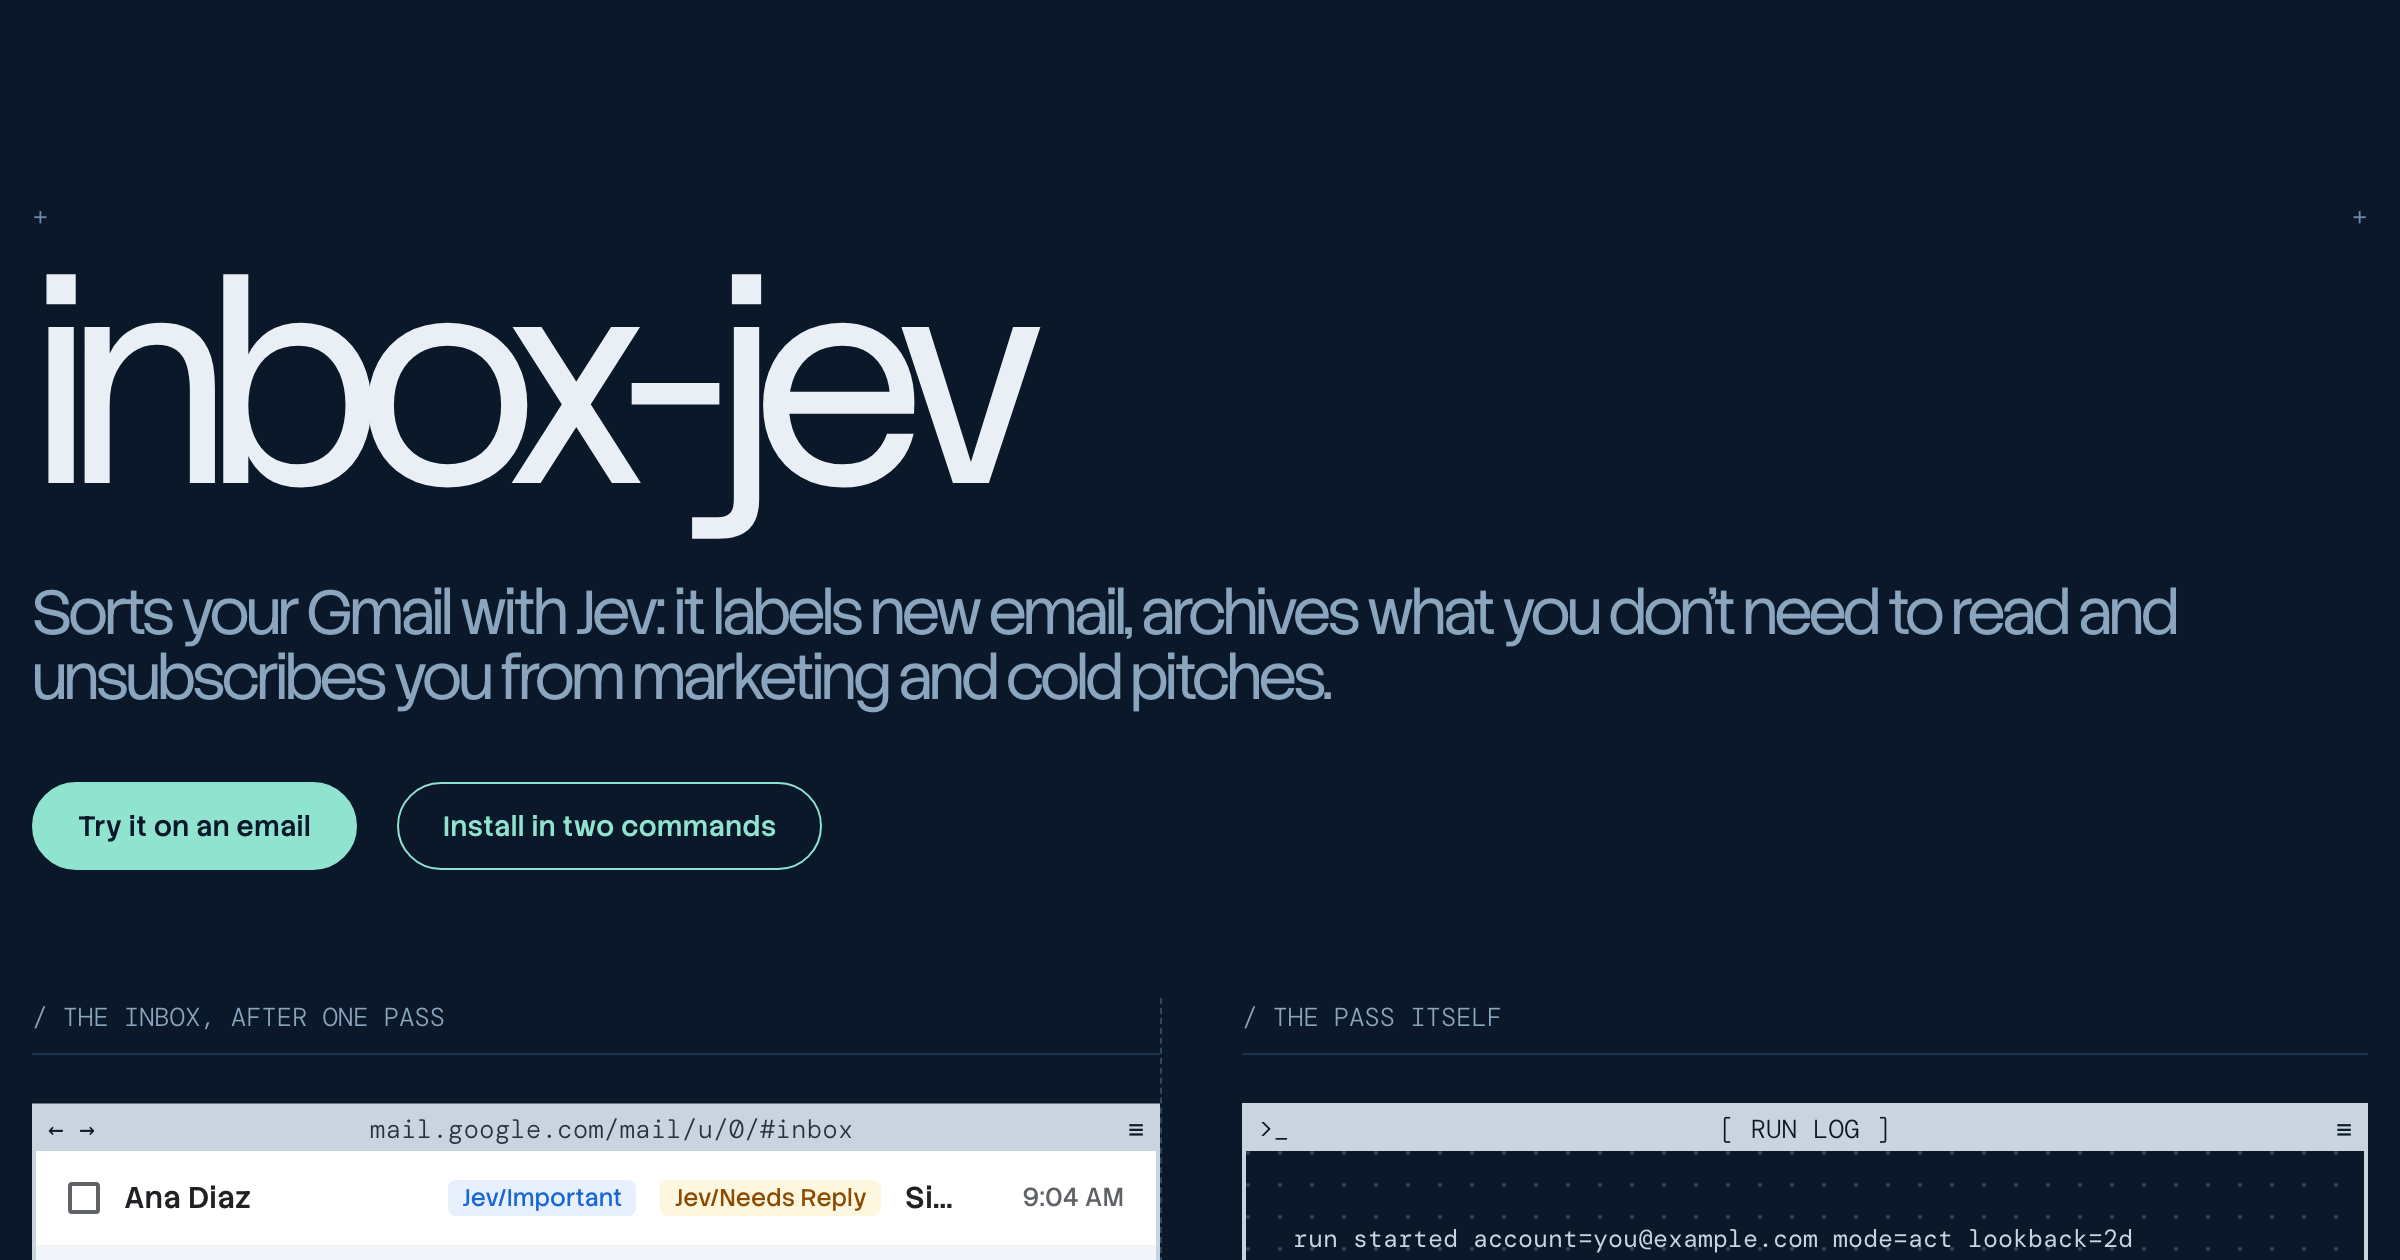
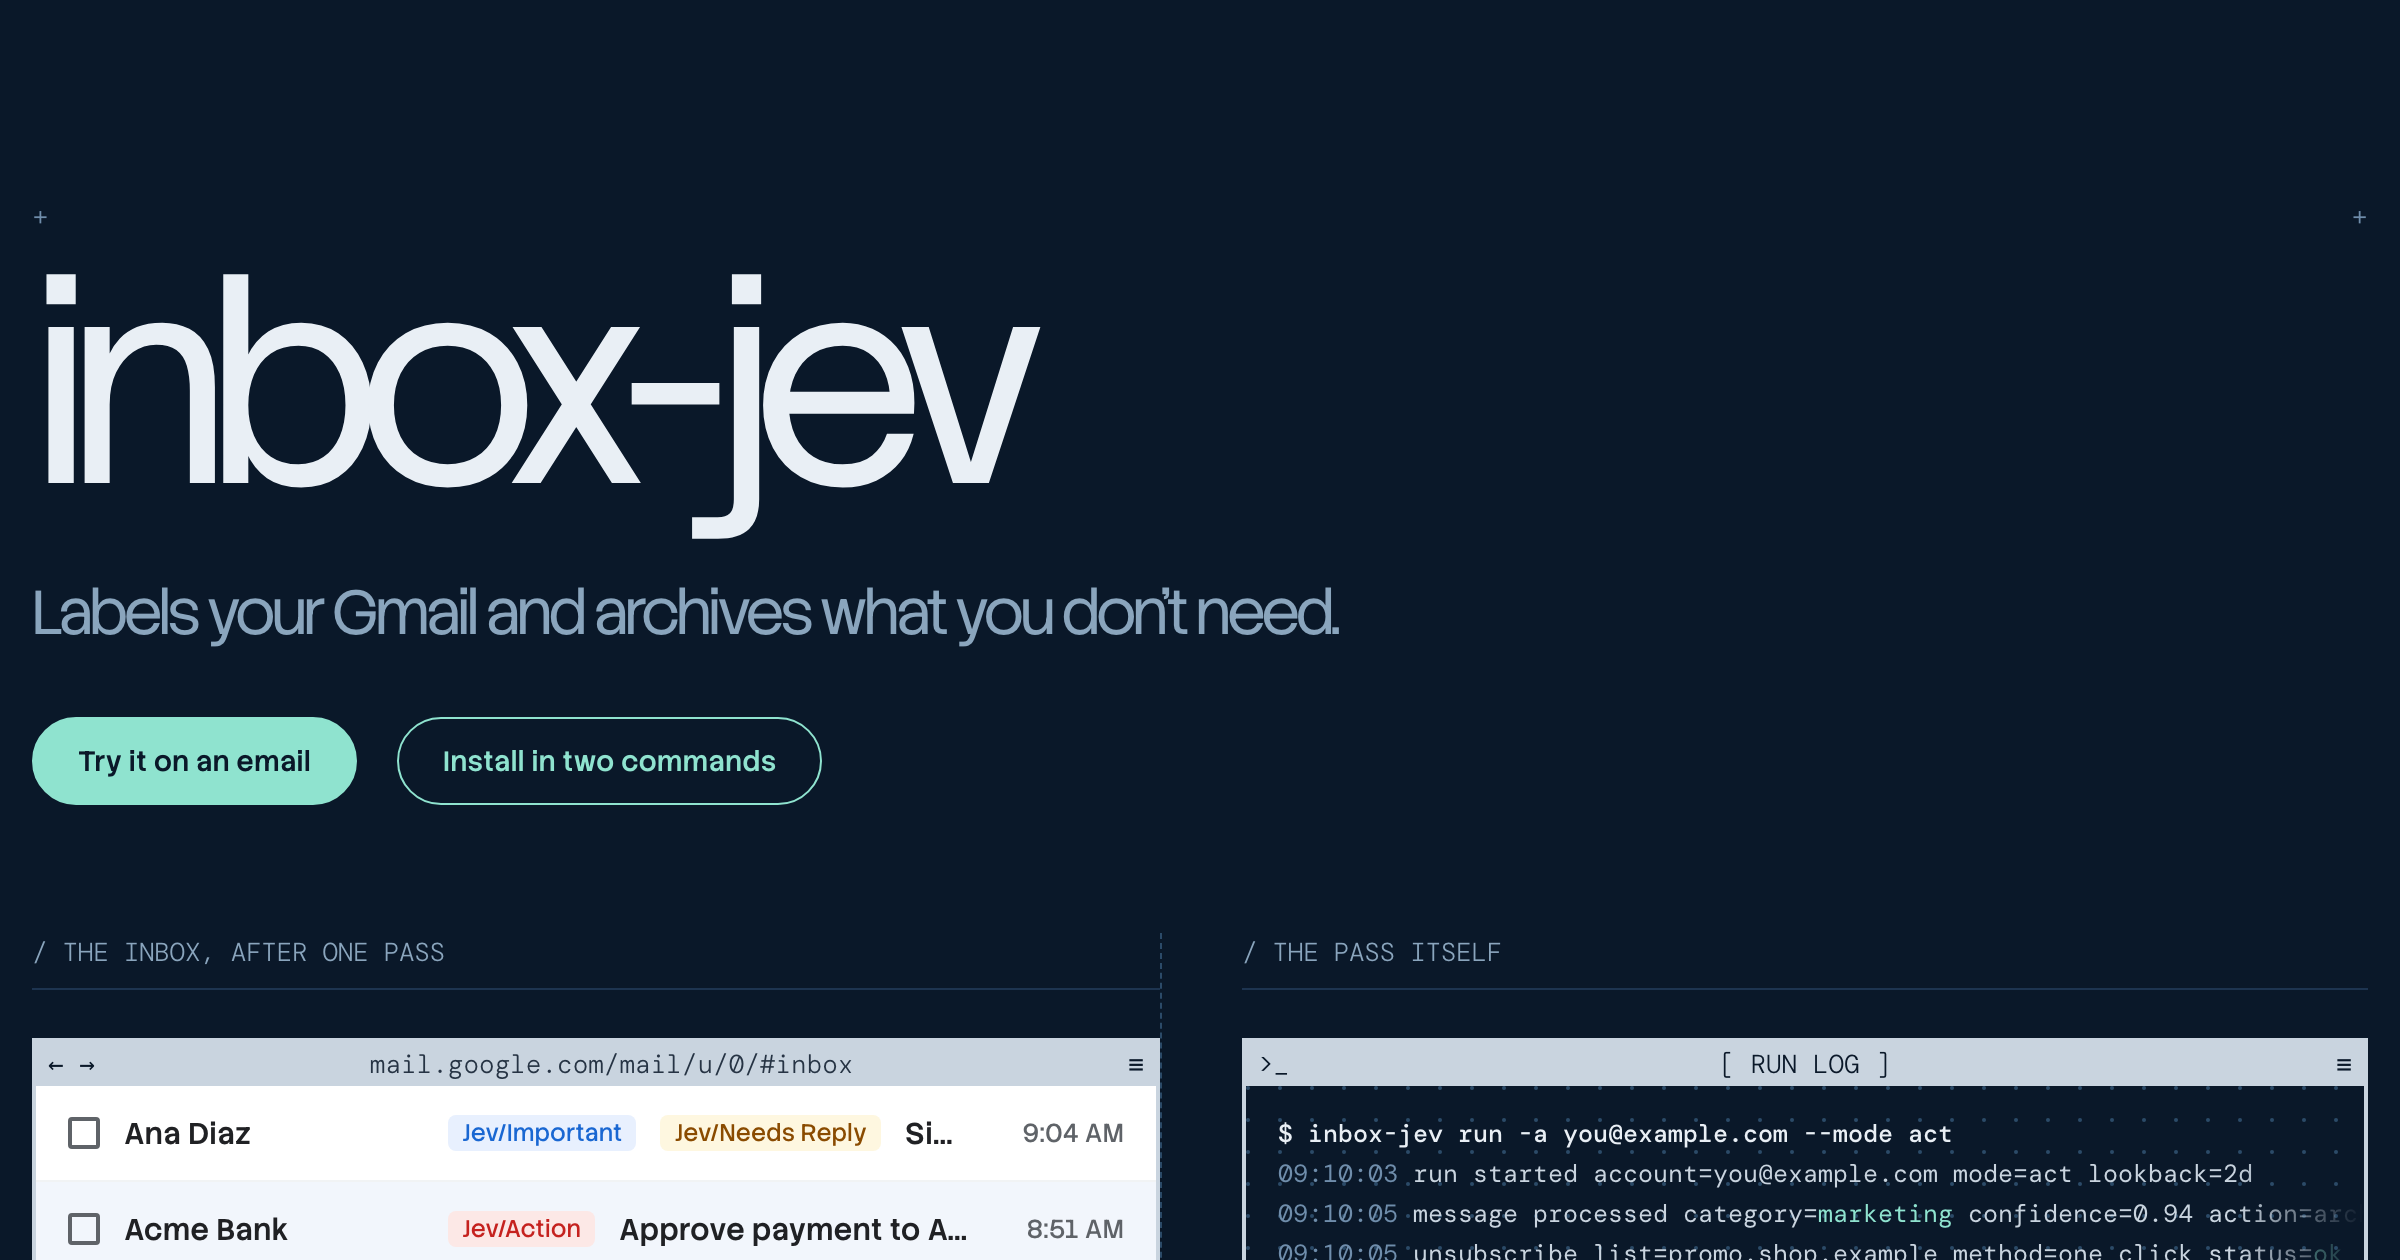
A shorter hero line: labels your Gmail and archives what you don't need

Changed region(s): [[0.0, 0.7429, 1.0, 1.0], [0.0, 0.4643, 0.9062, 0.7119]]

diff --git a/index.html b/index.html
@@ -4,14 +4,14 @@
 <meta charset="utf-8">
 <meta name="viewport" content="width=device-width, initial-scale=1, viewport-fit=cover">
 <title>inbox-jev · sorts your Gmail with Jev</title>
-<meta name="description" content="inbox-jev sorts your Gmail with the Jev classifier: it labels new email, archives what you don't need to read, moves scams to Spam and unsubscribes you from marketing and cold pitches. It learns from your corrections. Free, MIT licensed, runs on your own machine.">
+<meta name="description" content="inbox-jev labels your Gmail with the Jev classifier and archives what you don't need. It also moves scams to Spam, unsubscribes you from marketing and cold pitches, and learns from your corrections. Free, MIT licensed, runs on your own machine.">
 <meta name="theme-color" content="#0a1829">
 <link rel="icon" href="/favicon.svg" type="image/svg+xml">
 <link rel="canonical" href="https://inboxjev.dev/">
 <meta property="og:type" content="website">
 <meta property="og:url" content="https://inboxjev.dev/">
 <meta property="og:title" content="inbox-jev · sorts your Gmail with Jev">
-<meta property="og:description" content="inbox-jev sorts your Gmail with the Jev classifier: it labels new email, archives what you don't need to read, moves scams to Spam and unsubscribes you from marketing and cold pitches. It learns from your corrections. Free, MIT licensed, runs on your own machine.">
+<meta property="og:description" content="inbox-jev labels your Gmail with the Jev classifier and archives what you don't need. It also moves scams to Spam, unsubscribes you from marketing and cold pitches, and learns from your corrections. Free, MIT licensed, runs on your own machine.">
 <meta property="og:image" content="https://inboxjev.dev/og.png">
 <meta property="og:image:width" content="2400">
 <meta property="og:image:height" content="1260">
@@ -526,7 +526,7 @@ footer.is-decided .giant { color: var(--muted); transform: translateX(2%); }
   <span class="cross tl" aria-hidden="true">+</span><span class="cross tr" aria-hidden="true">+</span>
   <span class="cross bl" aria-hidden="true">+</span><span class="cross br" aria-hidden="true">+</span>
   <h1 data-rise style="--i:0">inbox-jev</h1>
-  <p class="sub" data-rise style="--i:1">Sorts your Gmail with Jev: it labels new email, archives what you don't need to read and unsubscribes you from marketing and cold pitches.</p>
+  <p class="sub" data-rise style="--i:1">Labels your Gmail and archives what you don't need.</p>
   <div class="actions" data-rise style="--i:2">
     <a class="pill primary" href="#try">Try it on an email</a>
     <a class="pill" href="#install">Install in two commands</a>

diff --git a/src/template.src.html b/src/template.src.html
@@ -500,7 +500,7 @@ footer.is-decided .giant { color: var(--muted); transform: translateX(2%); }
   <span class="cross tl" aria-hidden="true">+</span><span class="cross tr" aria-hidden="true">+</span>
   <span class="cross bl" aria-hidden="true">+</span><span class="cross br" aria-hidden="true">+</span>
   <h1 data-rise style="--i:0">inbox-jev</h1>
-  <p class="sub" data-rise style="--i:1">Sorts your Gmail with Jev: it labels new email, archives what you don't need to read and unsubscribes you from marketing and cold pitches.</p>
+  <p class="sub" data-rise style="--i:1">Labels your Gmail and archives what you don't need.</p>
   <div class="actions" data-rise style="--i:2">
     <a class="pill primary" href="#try">Try it on an email</a>
     <a class="pill" href="#install">Install in two commands</a>
